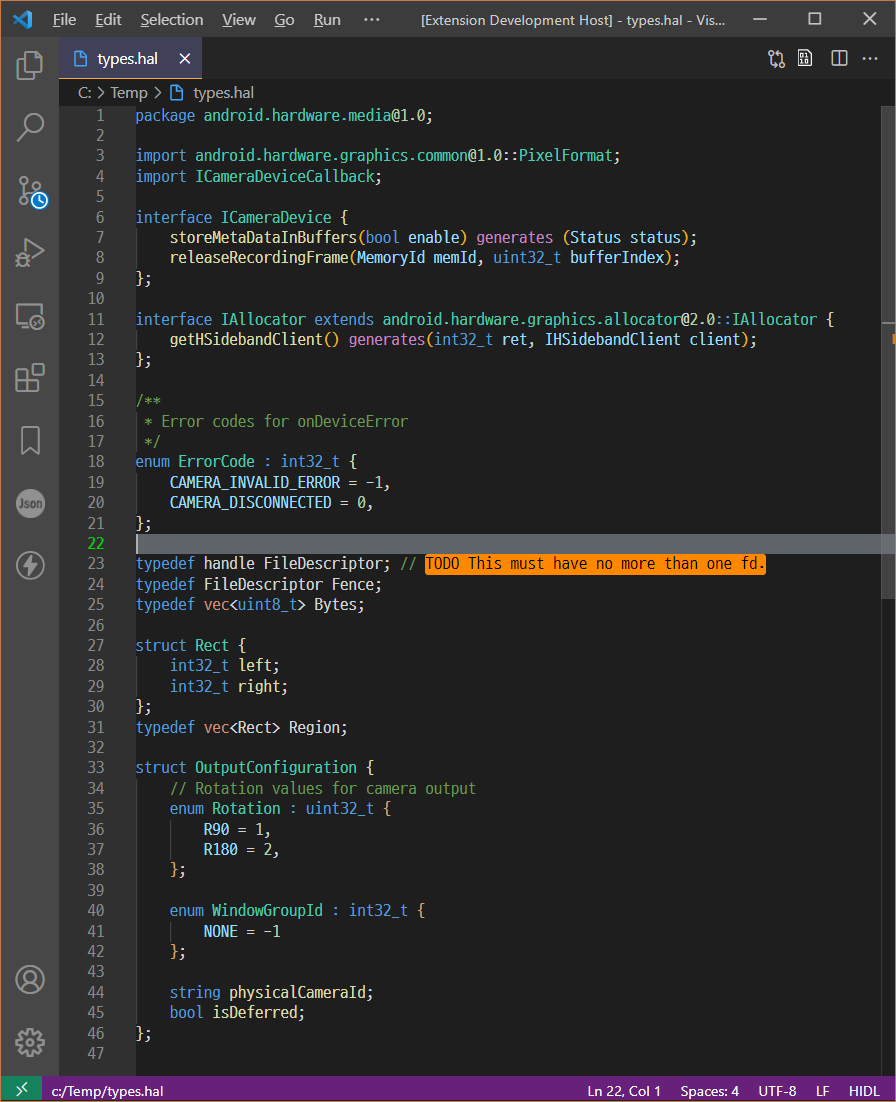
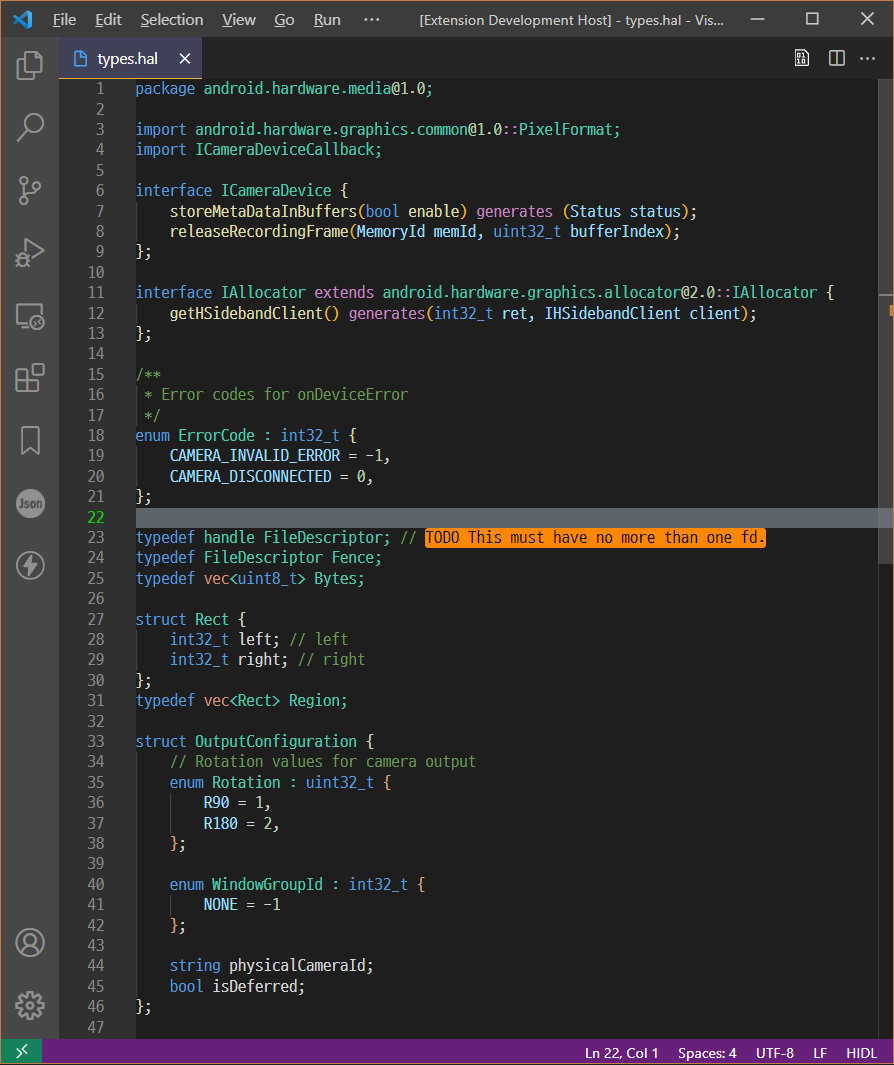
Support curly brace, comments in the middle

diff --git a/README.md b/README.md
@@ -11,13 +11,14 @@ This extension show syntax highlighting for Android HIDL(HAL Interface Definitio
 ![demo](https://raw.githubusercontent.com/yrpark99/hidl-syntax/master/images/demo.png)
 
 ## Known Issues
-- Brace(curly bracket) which start in a new line is not supported.
-- May not support full HIDL keywords and grammer.
+- May not support HIDL syntax fully. This extension only support simple HIDL syntax.
 
 ## Release Notes
 
-### 0.0.1
+### 0.0.2
+Support curly brace, comments in the middle
 
+### 0.0.1
 Initial release
 
 ## For more information

diff --git a/CHANGELOG.md b/CHANGELOG.md
@@ -1,5 +1,7 @@
 # Change Log
 
-## [0.0.1]
+## [0.0.2]
+- Support curly brace, comments in the middle.
 
+## [0.0.1]
 - Initial release for HIDL syntax highlighting.
